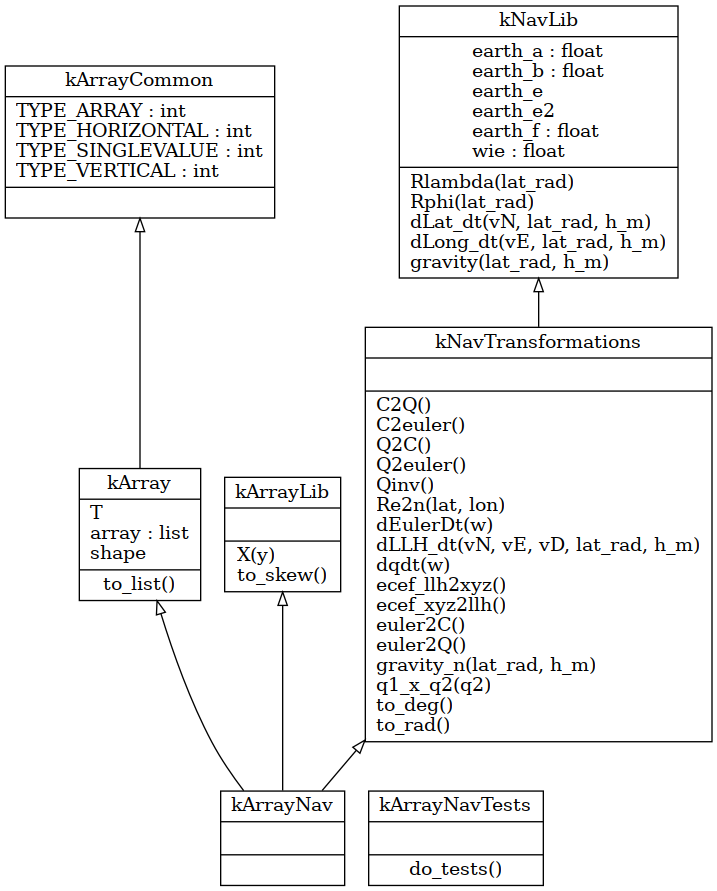
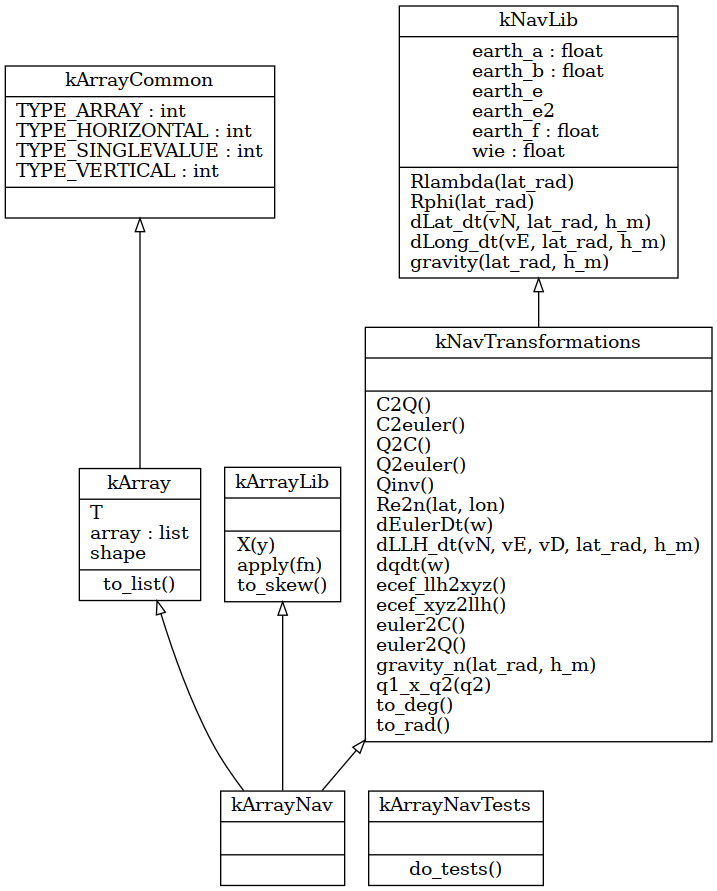
new method: to apply a fn on the current array

Changed region(s): [[0.3068, 0.5152, 0.4909, 0.697]]

diff --git a/karraynav/kArrayNav.py b/karraynav/kArrayNav.py
@@ -51,6 +51,15 @@ class kArrayLib:
             (a[0]*b[1]) - (a[1]*b[0])
         ], hvector=False )
 
+    def apply(self, fn):
+        """
+        Applies a function to the array.
+        : param : fn : function to call with the array as input
+        : returns a new object with the result of 'fn'
+        """
+
+        return self.__class__( fn(self.array) )
+
 #>>--<<..>>--<<..>>--<<..>>--<<..>>--<<..>>--<<..>>--<<..>>
 class kNavTransformations(kNavLib):
 
@@ -542,6 +551,7 @@ class kArrayNavTests:
                 euler[0], F_b[0], F_b[1], F_b[2]))
 
         # gravity:
+        print("==== gravity ====")
         import matplotlib.pylab as plt
 
         plt.figure(1).clf()
@@ -556,6 +566,13 @@ class kArrayNavTests:
             ax.plot(np.linspace(0,3000,20), g)
 
         ax.legend(leg)
+
+        # apply(fn)
+        print("==== apply() ====")
+        a = kArrayNav( [[2,0,0],[0,4,0],[0,0,10]] )
+        b = a.apply(lambda x: np.linalg.inv(x))
+        for i in range(3):
+            assert b[i,i] == 1./a[i,i]
 
         #----------------------#
         # coherence tests

diff --git a/README.md b/README.md
@@ -42,6 +42,9 @@
         geografic frame:](#local-gravity-in-geografic-frame)
     -   [<span class="toc-section-number">2.17</span> derivative of
         lat/long/alt:](#derivative-of-latlongalt)
+    -   [<span class="toc-section-number">2.18</span> to apply a
+        function on the current
+        array:](#to-apply-a-function-on-the-current-array)
 -   [<span class="toc-section-number">3</span> How to use](#how-to-use)
 -   [<span class="toc-section-number">4</span> How to test
     it](#how-to-test-it)
@@ -157,6 +160,11 @@ This is the standard sintax to create a matrix. The boolean parameter
 ## derivative of lat/long/alt:
 
     dLLHdt = dLLH_dt(...)
+
+## to apply a function on the current array:
+
+    a = kArrayNav( [[2,0,0],[0,4,0],[0,0,10]] )
+    b = a.apply(lambda x: np.linalg.inv(x))
 
 # How to use
 
